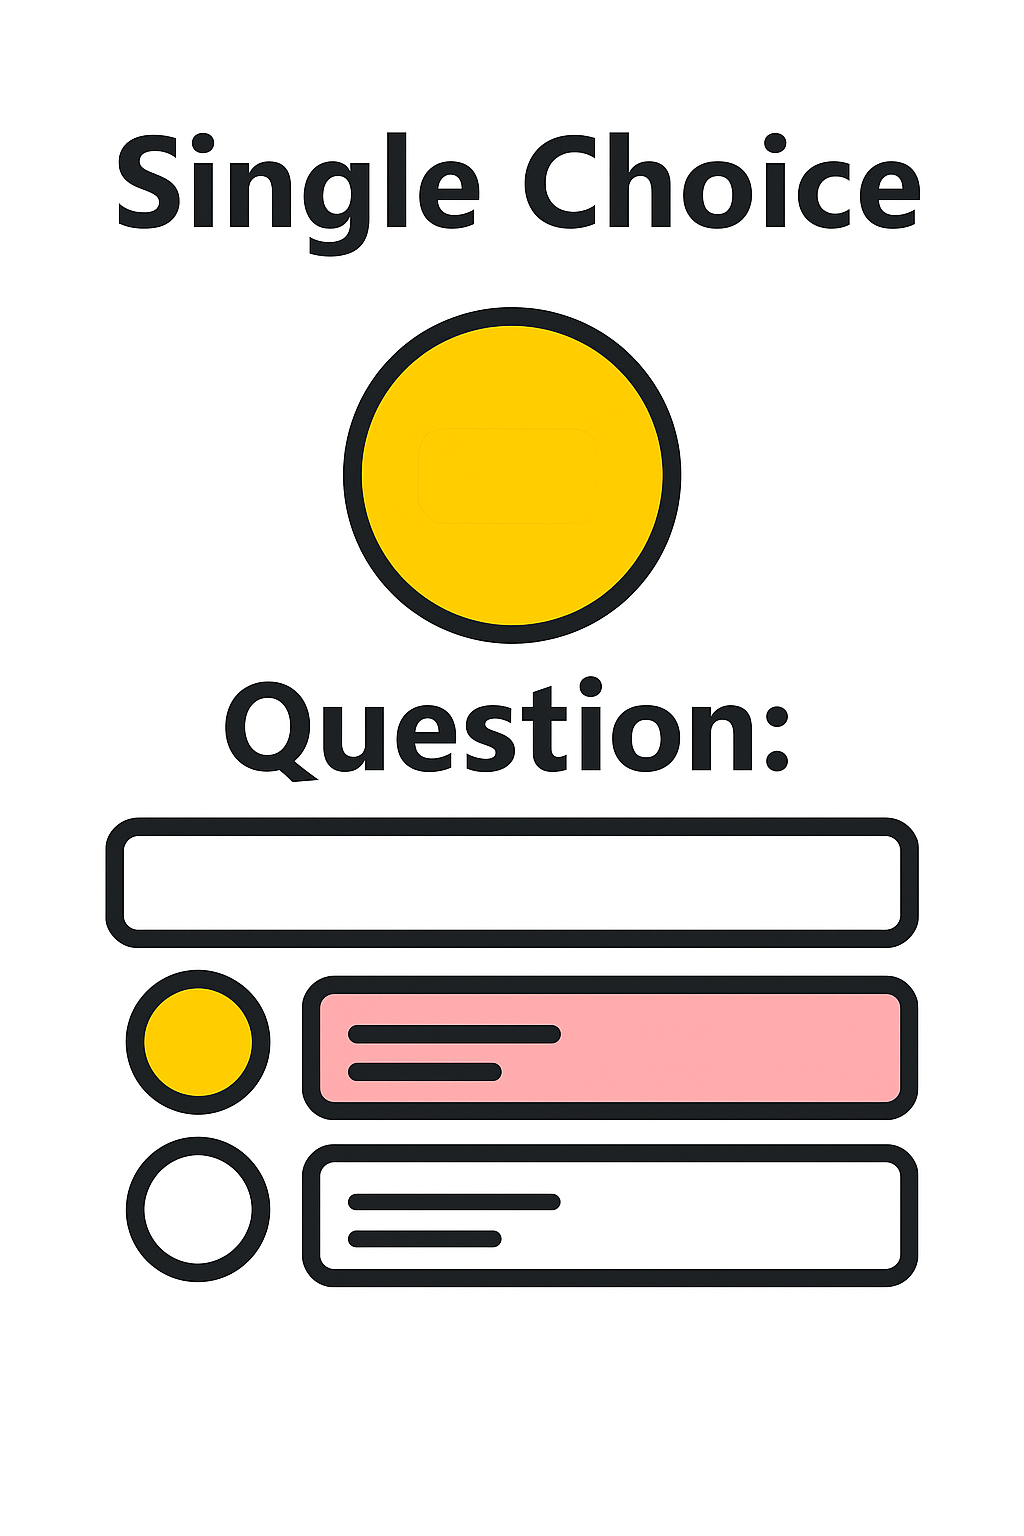
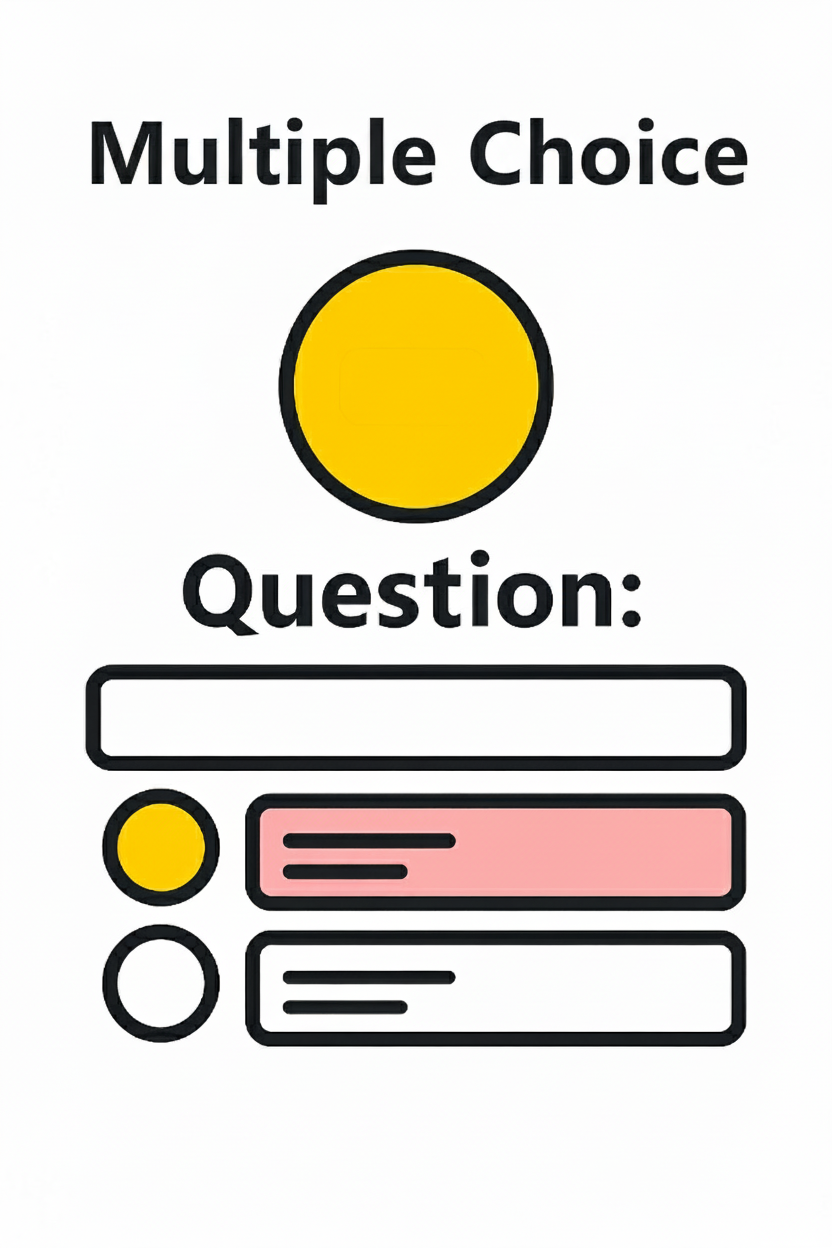
correciones con retroalimentacion
imagen que diga multiple choice
cambio de nombre de "home" a "my library"

diff --git a/frontend/src/Components/BookCreator/Components/BookSidebarPanel/SideBar.jsx b/frontend/src/Components/BookCreator/Components/BookSidebarPanel/SideBar.jsx
@@ -2,12 +2,13 @@ import { useNavigate } from "react-router-dom";
 import SidebarIcon from "./SideBarIcon"; // Usa el nombre exacto del archivo
 import {BookOpenCheck, Gamepad, MessageCircle, Users, Package, Home, Image, Type, ImagePlus} from "lucide-react";
 import logo from "../../../../FR_Logo.png";
+import { library } from "@fortawesome/fontawesome-svg-core";
 
 export default function SideBar({ openPanel, setOpenPanel }) {
   const navigate = useNavigate(); 
 
   const options = [
-  { key: "home", icon: <Home />, label: "Home" },
+  { key: "home", icon: <Home />, label: "My library" },
   { key: "text", icon: <Type />, label: "Text" },
   { key: "background", icon: <Image />, label: "Background" },
   { key: "custom", icon: <ImagePlus />, label: "Custom" },
